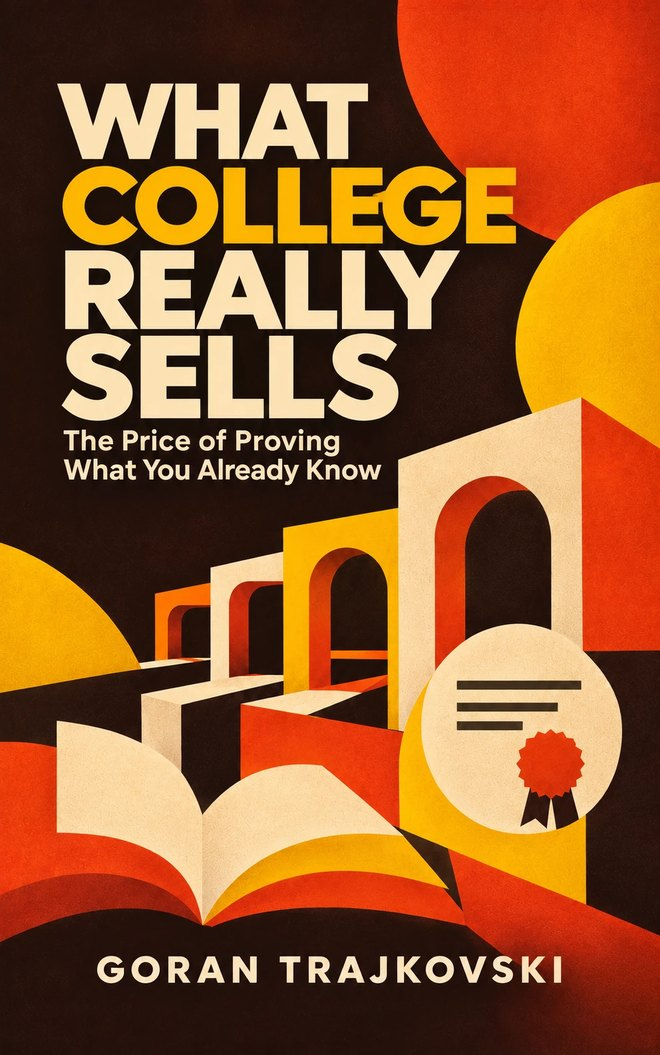
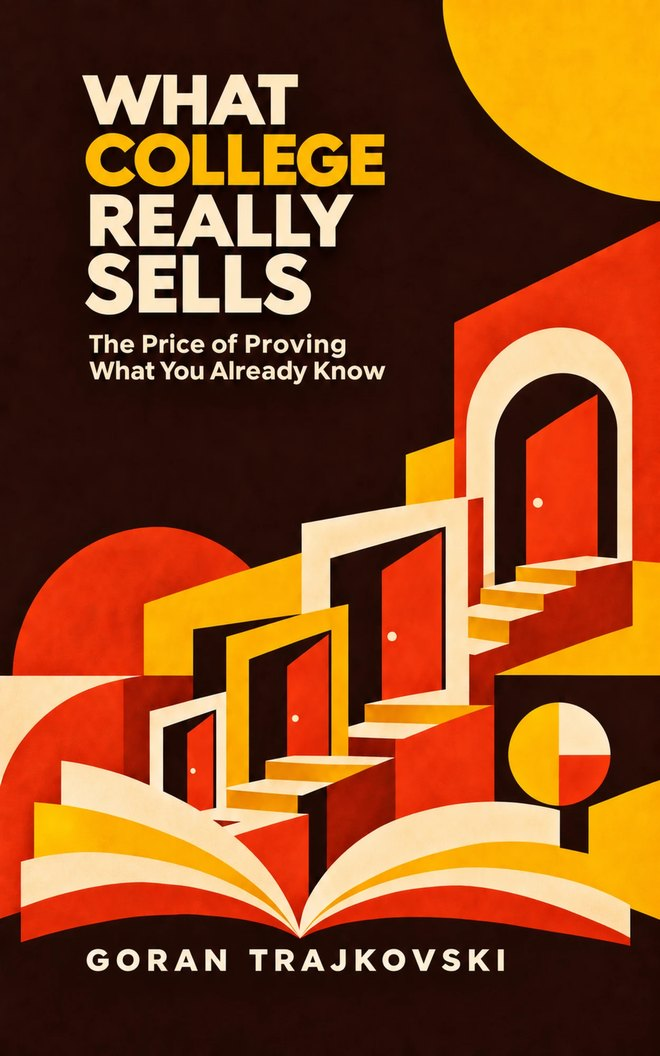
What College Really Sells: update to final cover art
Replace the cover with the final artwork (higher-res source) and add a ?v=2
cache-bust to the image src on the three homepages so the new cover shows
immediately instead of a stale cached version.

Claude-Session: https://claude.ai/code/session_01CyQm4f1V7CTkVCqdyFjRoL

diff --git a/mk/index.html b/mk/index.html
@@ -926,7 +926,7 @@
         </div>
         <div class="books">
         <a class="book" href="https://www.amazon.com/dp/B0HQVD3NHH" target="_blank" rel="noopener">
-          <img src="/assets/img/books/what-college-really-sells.jpg" alt="What College Really Sells — корица" loading="lazy" width="660" height="1055" />
+          <img src="/assets/img/books/what-college-really-sells.jpg?v=2" alt="What College Really Sells — корица" loading="lazy" width="660" height="1055" />
           <p class="book__title">What College Really Sells</p>
           <p class="book__sub"><span class="book__badge">Kindle</span> The Price of Proving What You Already Know</p>
         </a>

diff --git a/index.html b/index.html
@@ -1058,7 +1058,7 @@
         </div>
         <div class="books">
         <a class="book" href="https://www.amazon.com/dp/B0HQVD3NHH" target="_blank" rel="noopener">
-          <img src="/assets/img/books/what-college-really-sells.jpg" alt="What College Really Sells — book cover" loading="lazy" width="660" height="1055" />
+          <img src="/assets/img/books/what-college-really-sells.jpg?v=2" alt="What College Really Sells — book cover" loading="lazy" width="660" height="1055" />
           <p class="book__title">What College Really Sells</p>
           <p class="book__sub"><span class="book__badge">Kindle</span> The Price of Proving What You Already Know</p>
         </a>

diff --git a/es/index.html b/es/index.html
@@ -927,7 +927,7 @@
         </div>
         <div class="books">
         <a class="book" href="https://www.amazon.com/dp/B0HQVD3NHH" target="_blank" rel="noopener">
-          <img src="/assets/img/books/what-college-really-sells.jpg" alt="What College Really Sells — portada" loading="lazy" width="660" height="1055" />
+          <img src="/assets/img/books/what-college-really-sells.jpg?v=2" alt="What College Really Sells — portada" loading="lazy" width="660" height="1055" />
           <p class="book__title">What College Really Sells</p>
           <p class="book__sub"><span class="book__badge">Kindle</span> The Price of Proving What You Already Know</p>
         </a>
